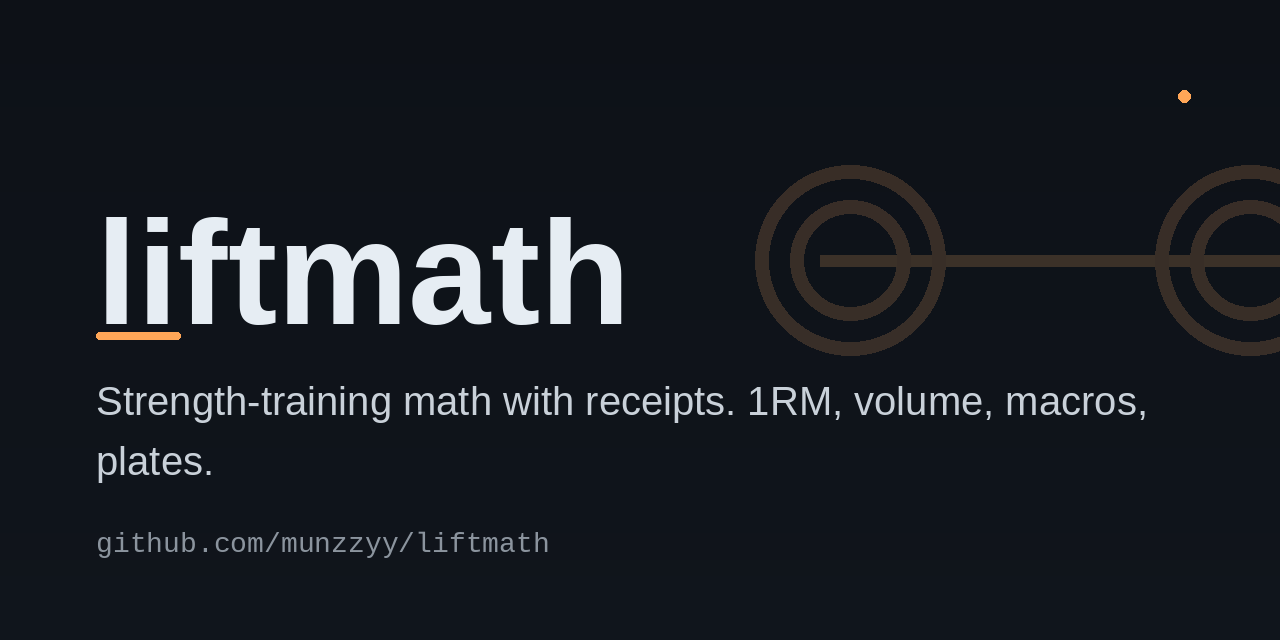
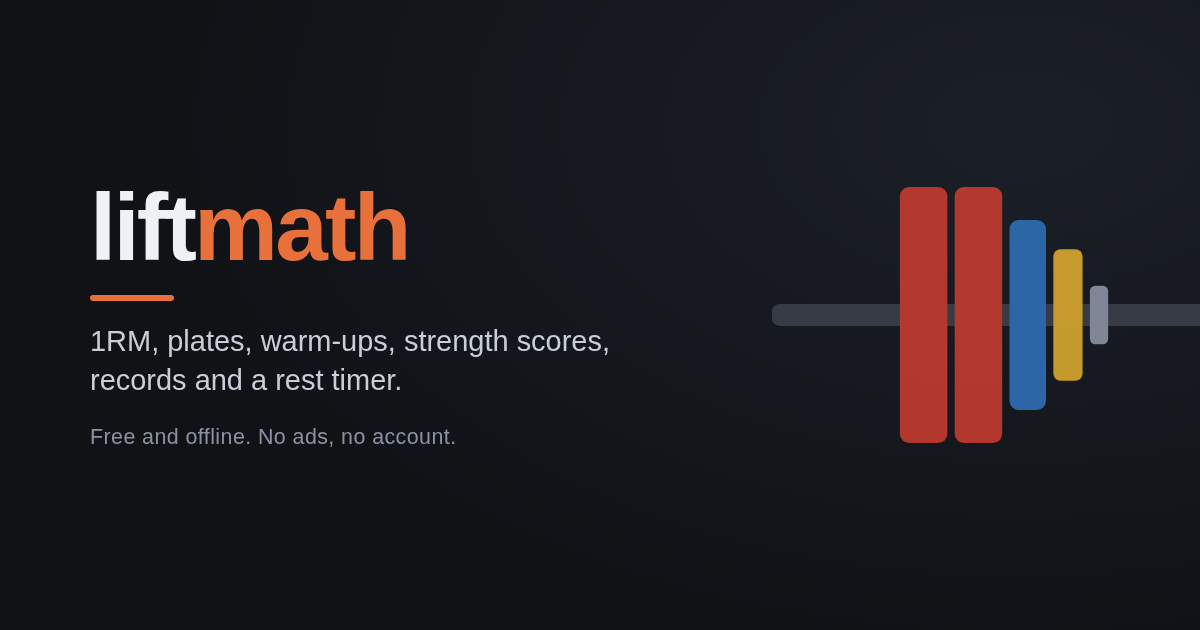
Refresh the store listing, the social card and the README for Android
The F-Droid listing now describes 2.5.0 as it is, with six screenshots
from the real app and a feature graphic. The link-preview card still
advertised volume and macros, which were cut in 2.0; it is redrawn from a
small template in tools/cards so it can't drift that far again.

Changed region(s): [[0.0617, 0.2413, 1.0, 0.754], [0.0617, 0.8143, 0.4317, 0.8746]]

diff --git a/tools/cards/card.html b/tools/cards/card.html
@@ -1,0 +1,40 @@
+<!doctype html>
+<html lang="en">
+<head>
+<meta charset="utf-8">
+<title>liftmath card</title>
+<style>
+  html, body { margin: 0; width: 100vw; height: 100vh; overflow: hidden; }
+  body {
+    background: radial-gradient(120% 140% at 85% 20%, #1b1f27 0%, #101216 60%);
+    color: #eef1f6;
+    font-family: "Inter", "Helvetica Neue", Arial, sans-serif;
+    display: flex; align-items: center;
+    position: relative;
+  }
+  .text { padding-left: 7.5vw; max-width: 50vw; position: relative; z-index: 1; }
+  h1 { font-size: 15vh; font-weight: 800; letter-spacing: -0.03em; margin: 0; line-height: 1; }
+  h1 span { color: #e8703a; }
+  .rule { width: 7vw; height: 1.1vh; background: #e8703a; border-radius: 1vh; margin: 3.2vh 0 3.2vh; }
+  p { font-size: 4.6vh; line-height: 1.35; margin: 0; color: #c9ced8; }
+  .foot { margin-top: 4vh; font-size: 3.4vh; color: #8b93a3; letter-spacing: 0.02em; }
+  svg { position: absolute; right: -10vw; top: 50%; transform: translateY(-50%); height: 58vh; opacity: 0.9; }
+</style>
+</head>
+<body>
+  <div class="text">
+    <h1>lift<span>math</span></h1>
+    <div class="rule"></div>
+    <p>1RM, plates, warm-ups, strength scores, records and a rest timer.</p>
+    <div class="foot">Free and offline. No ads, no account.</div>
+  </div>
+  <svg viewBox="0 0 300 200" aria-hidden="true">
+    <rect x="0" y="94" width="300" height="12" rx="4" fill="#3a3f4a"/>
+    <rect x="70" y="30" width="26" height="140" rx="5" fill="#c43c30"/>
+    <rect x="100" y="30" width="26" height="140" rx="5" fill="#c43c30"/>
+    <rect x="130" y="48" width="20" height="104" rx="5" fill="#2f6fb5"/>
+    <rect x="154" y="64" width="16" height="72" rx="4" fill="#d9a82e"/>
+    <rect x="174" y="84" width="10" height="32" rx="3" fill="#8b93a3"/>
+  </svg>
+</body>
+</html>

diff --git a/web/index.html b/web/index.html
@@ -10,8 +10,8 @@
 <meta property="og:type" content="website" />
 <meta property="og:url" content="https://munzzyy.github.io/liftmath/" />
 <meta property="og:image" content="https://munzzyy.github.io/liftmath/social-card.png" />
-<meta property="og:image:width" content="1280" />
-<meta property="og:image:height" content="640" />
+<meta property="og:image:width" content="1200" />
+<meta property="og:image:height" content="630" />
 <meta name="twitter:card" content="summary_large_image" />
 <meta name="twitter:title" content="liftmath - 1RM, plates, strength score" />
 <meta name="twitter:description" content="Gym calculators: 1RM consensus, plate loading, Wilks/DOTS/IPF GL strength scores, and records. Free, works offline, no account, no ads." />

diff --git a/README.md b/README.md
@@ -52,6 +52,14 @@ clipboard copy otherwise.
 Pure Python standard library. No dependencies, no network calls, no accounts. Use it as a library
 you import or a command you run.
 
+## Android
+
+The same app runs on Android from [`android/`](android): the web app bundled into a small WebView
+wrapper with no internet permission, so it works with the phone in airplane mode. Share opens the
+system share sheet and the rest timer keeps the screen on. Signed APKs are on the
+[releases page](https://github.com/munzzyy/liftmath/releases), and it has been submitted to F-Droid.
+To build it yourself, run `./gradlew assembleDebug` inside `android/`.
+
 ## Install
 
 ```
